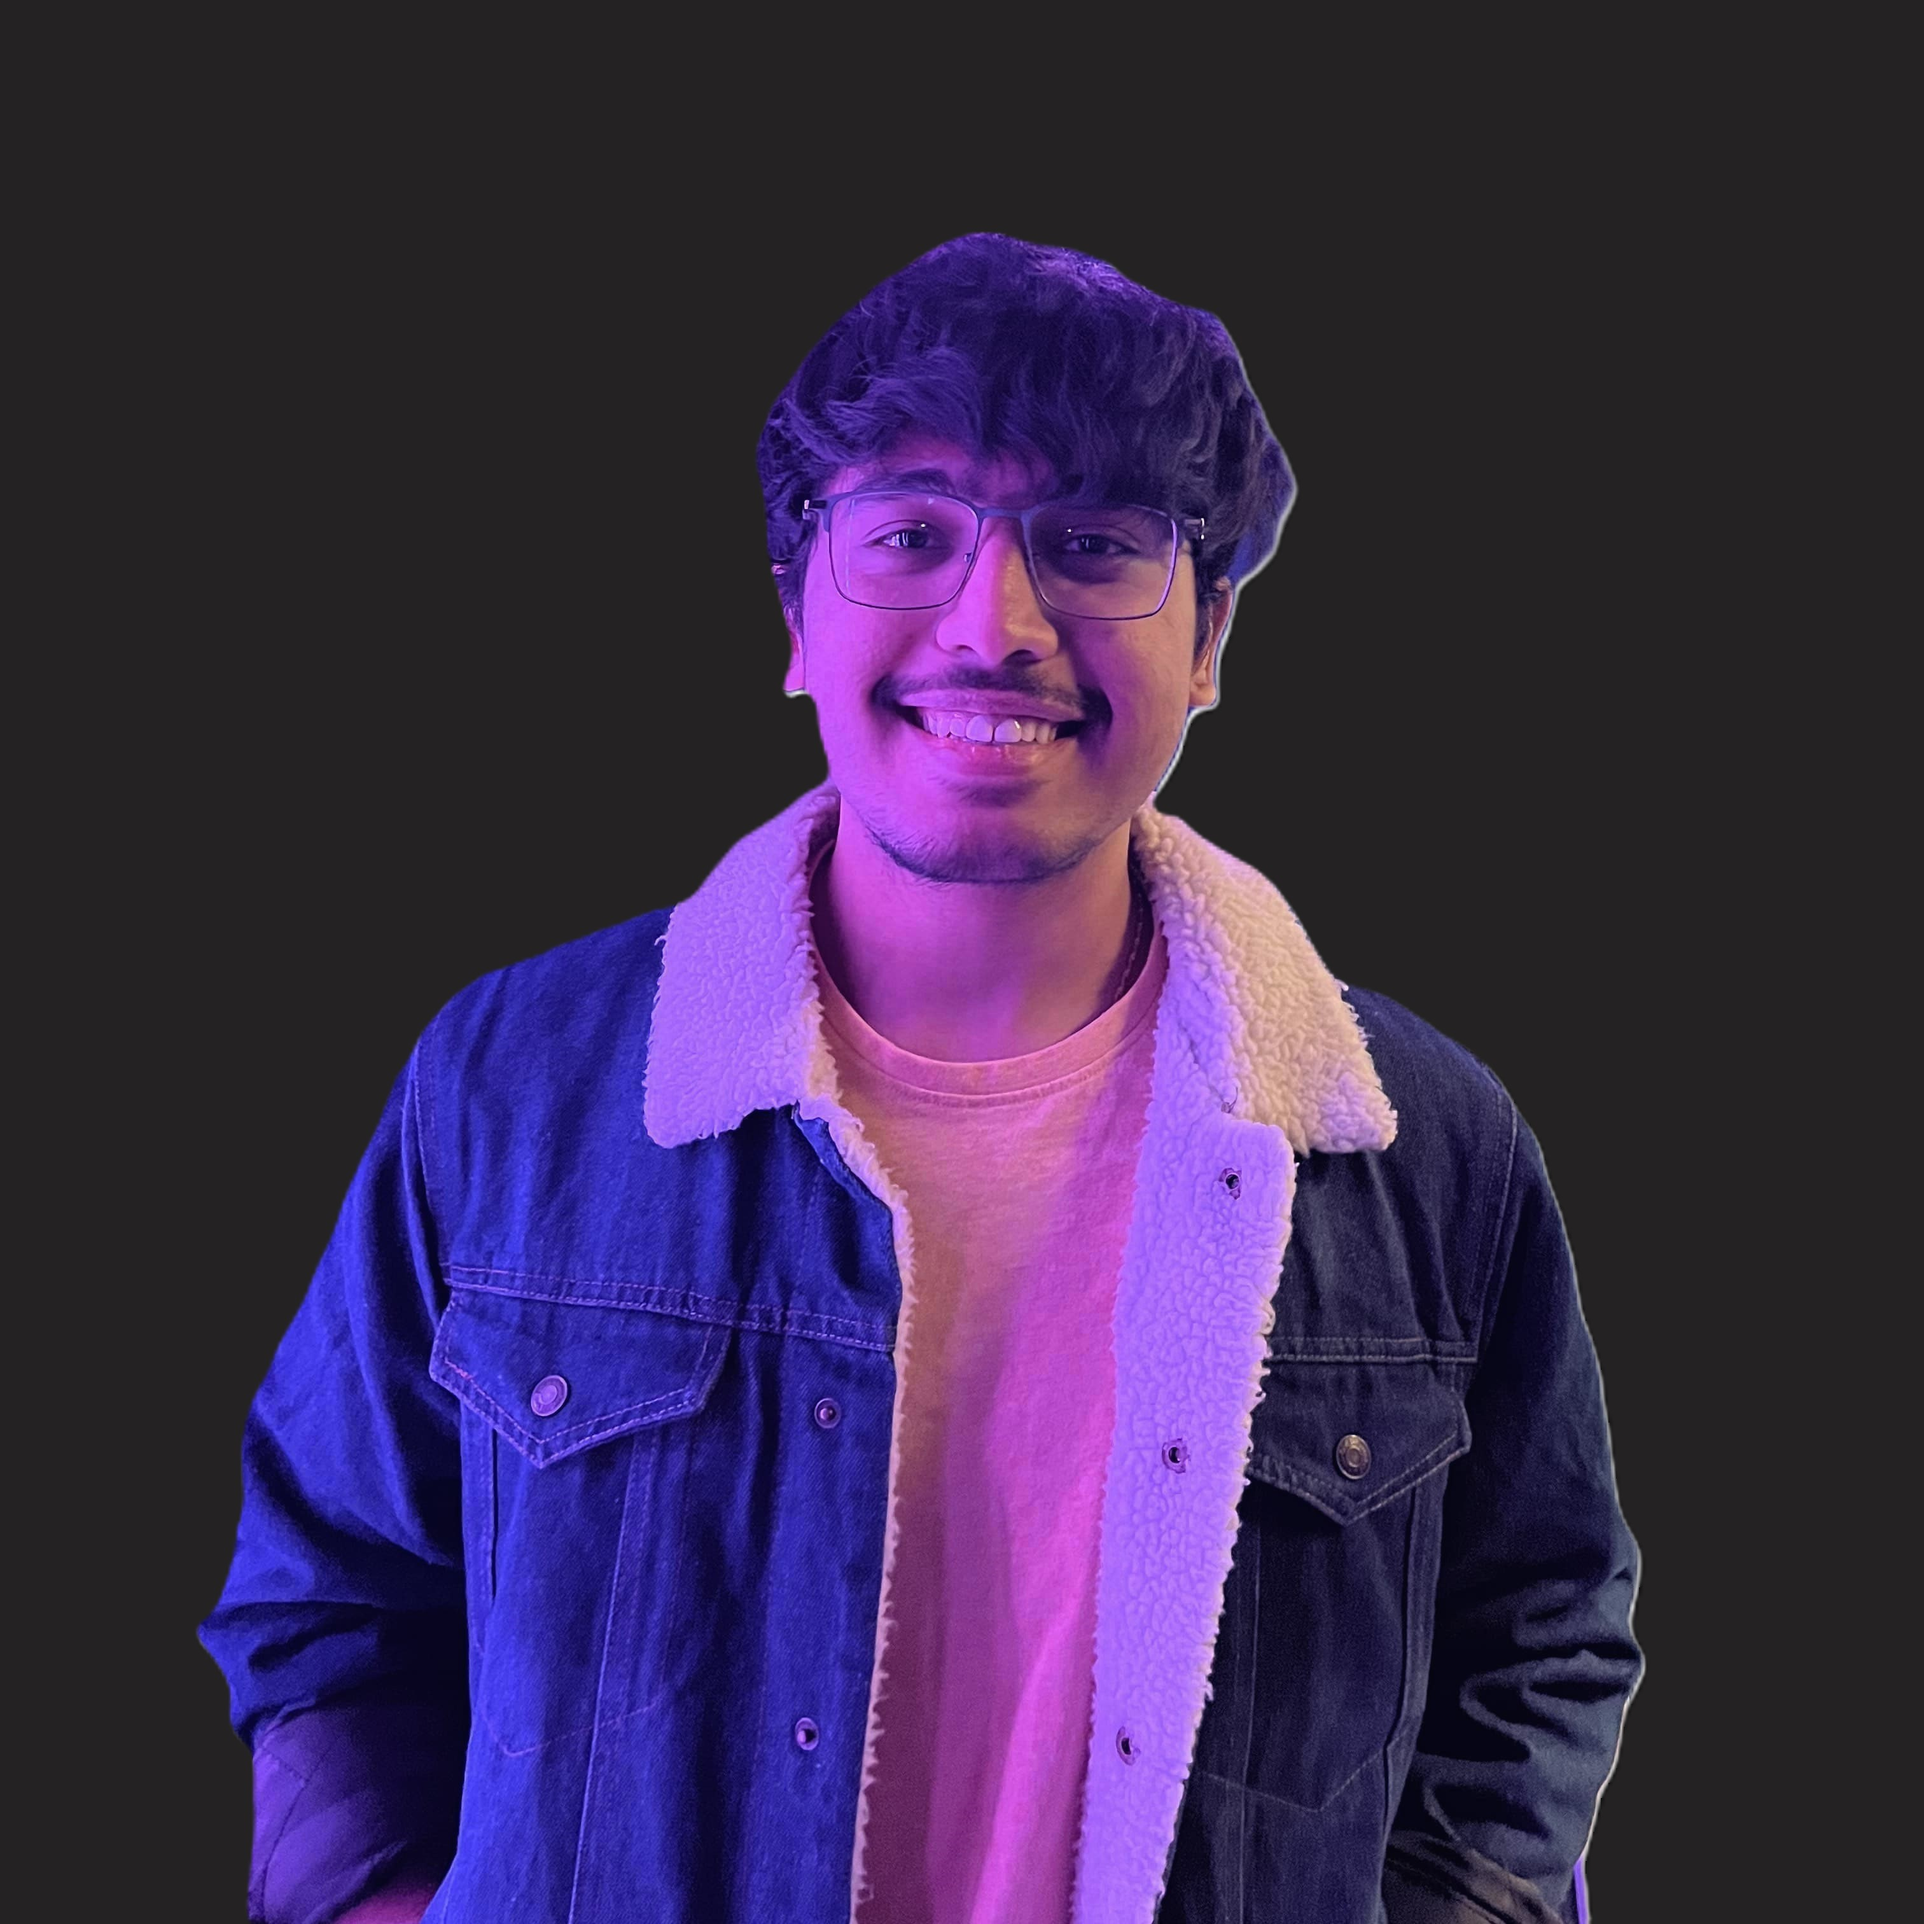
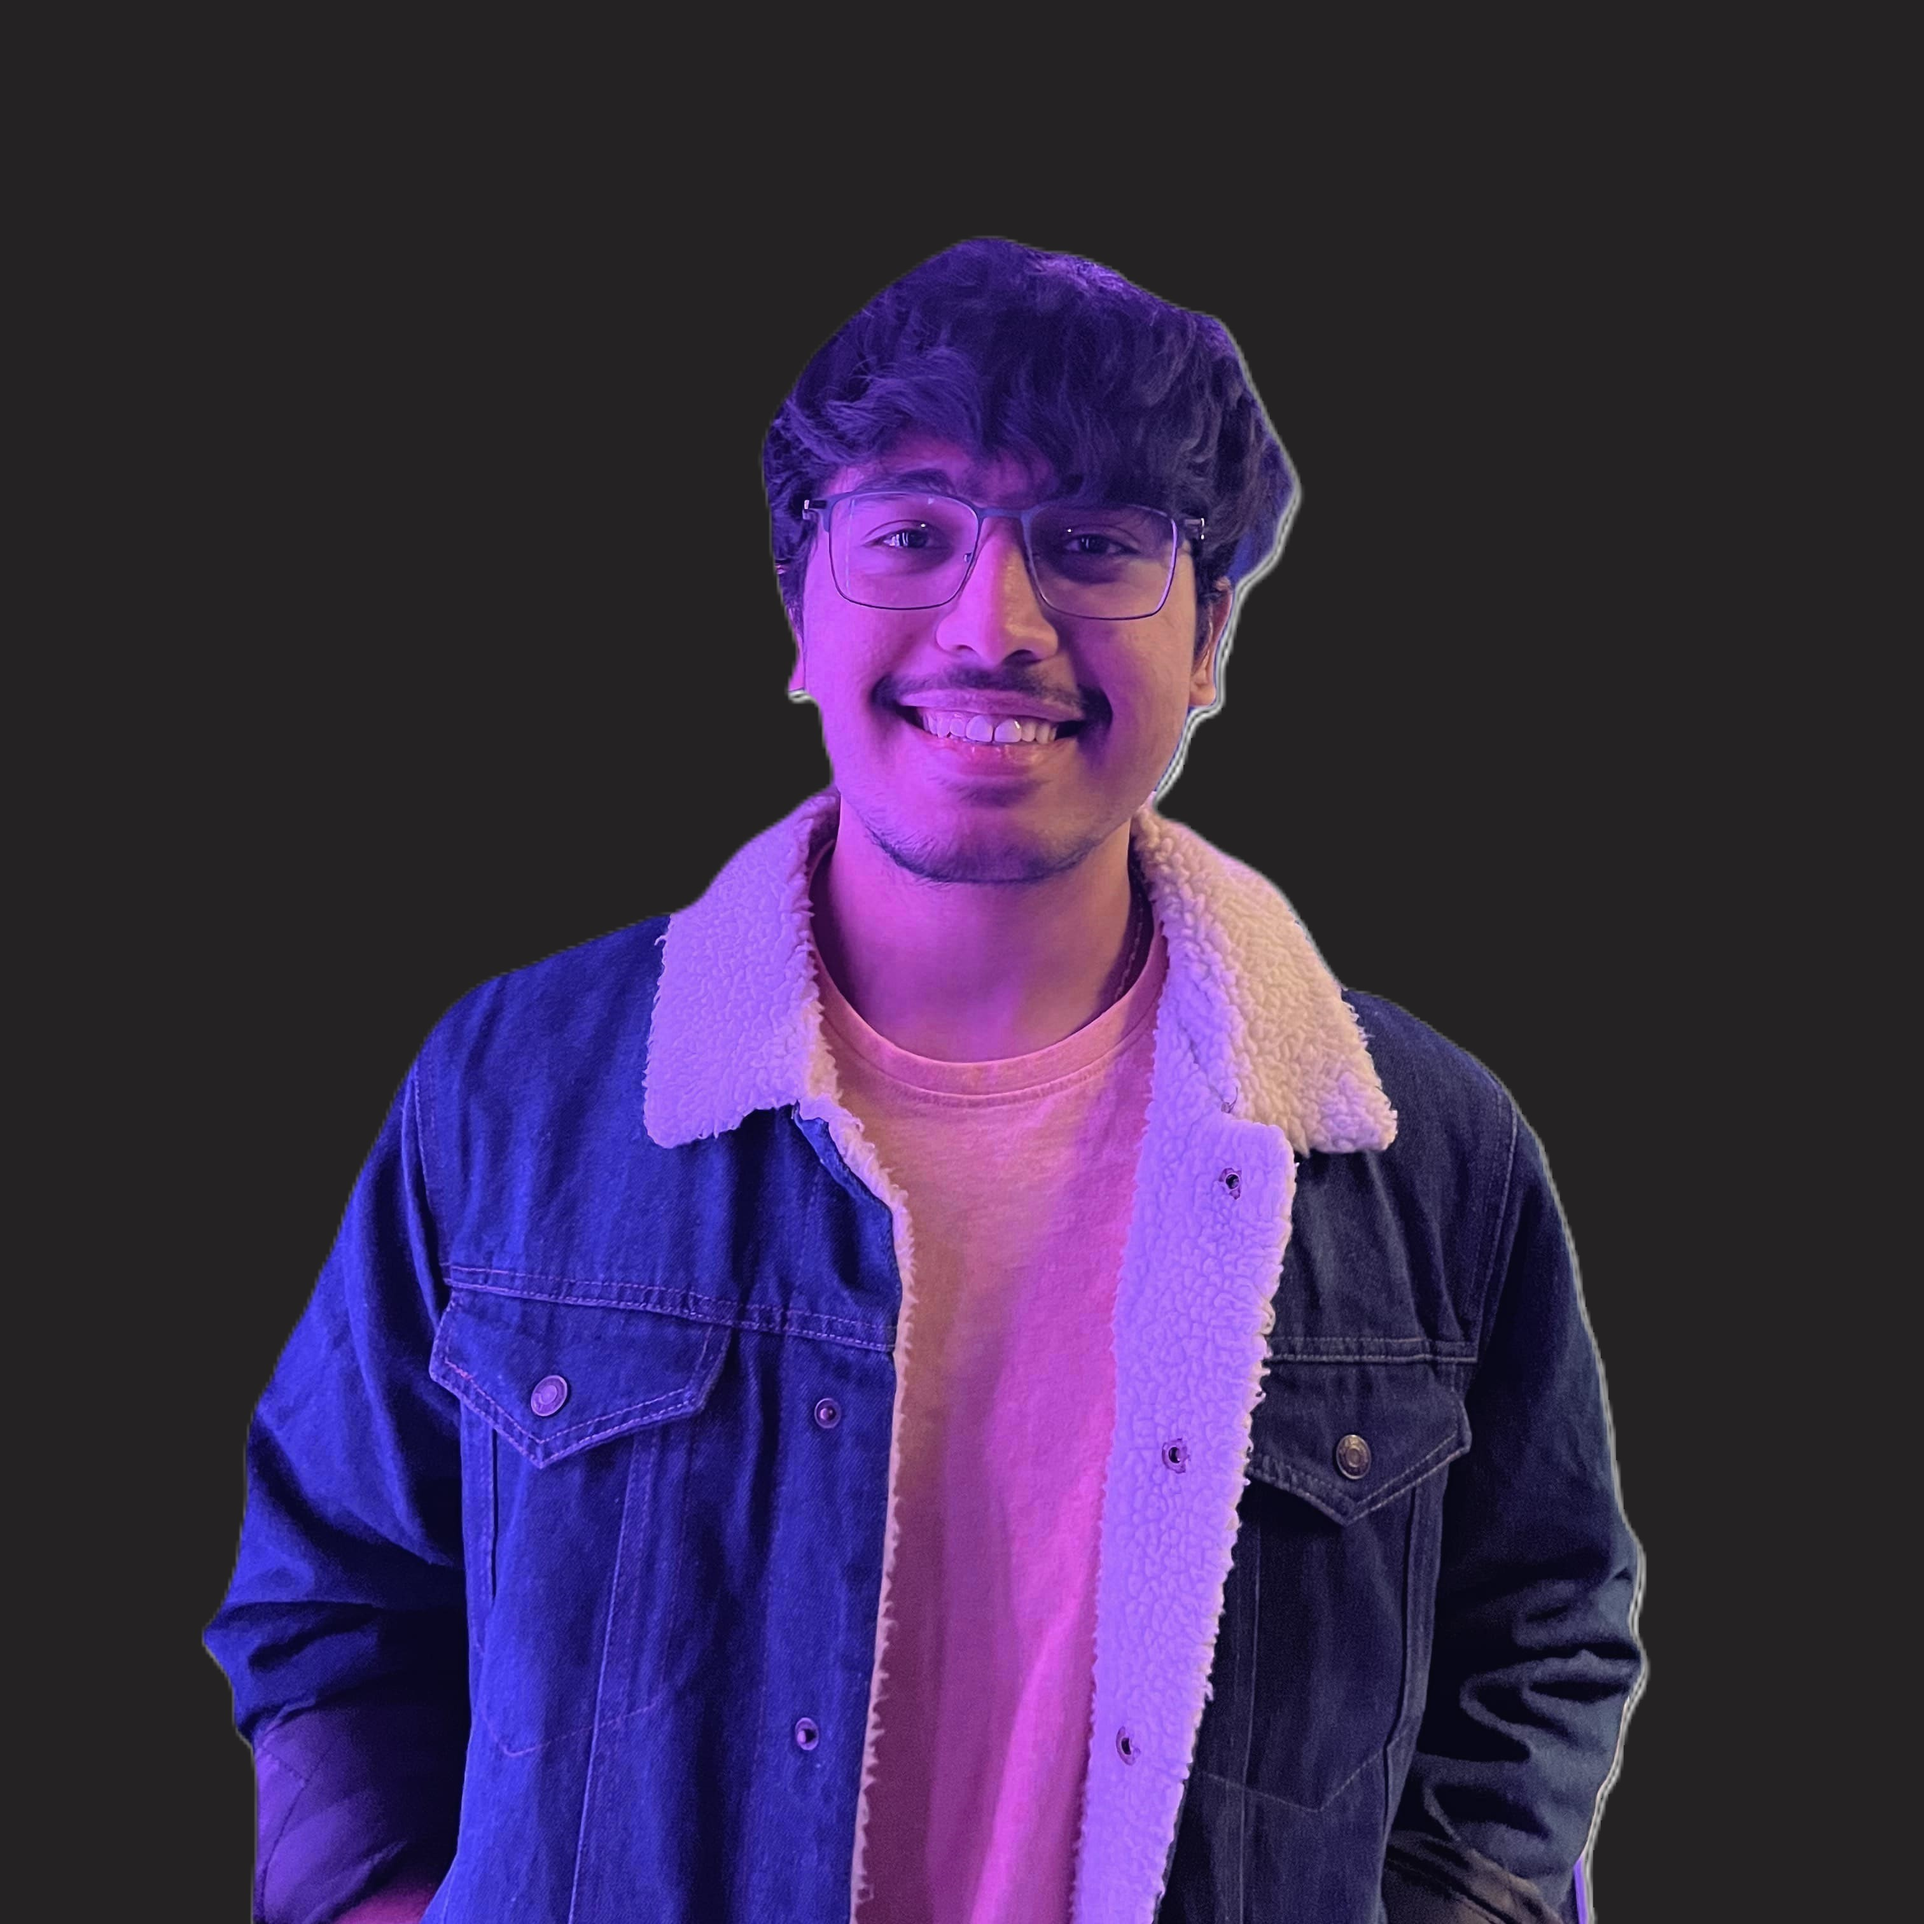
added profile photo

diff --git a/src/Homepage/Banner/Banner.jsx b/src/Homepage/Banner/Banner.jsx
@@ -24,15 +24,23 @@ const Banner = () => {
                                 md:mx-0
                                 mx-3
                                 '>
-                    <img src={require("../../ProfilePhoto.jpg")} alt=""
+                    <img src={require("../../ProfileCropped.jpg")} alt=""
                         className='
+                    xl:w-[300px]
+                    xl:h-[300px]
                     lg:w-[400px] 
                     lg:h-[400px]
                     md:w-[600px]
                     sm:w-[500px]
                     object-contain 
                     rounded-full 
-                    grayscale'/>
+                    grayscale-0
+                    hover:grayscale-0
+                    transition
+                    ease-in-out
+                    duration-150
+                    cursor-pointer
+                    bg-img'/>
                 </div>
                 <div className='banner__name 
                                 lg:text-7xl 
